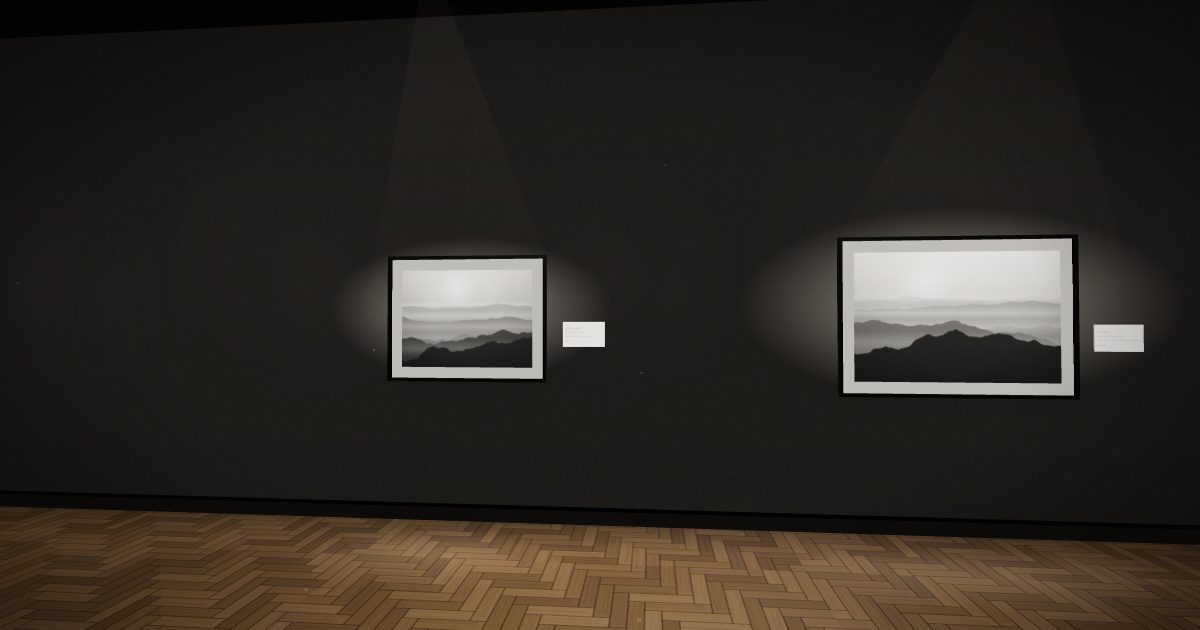
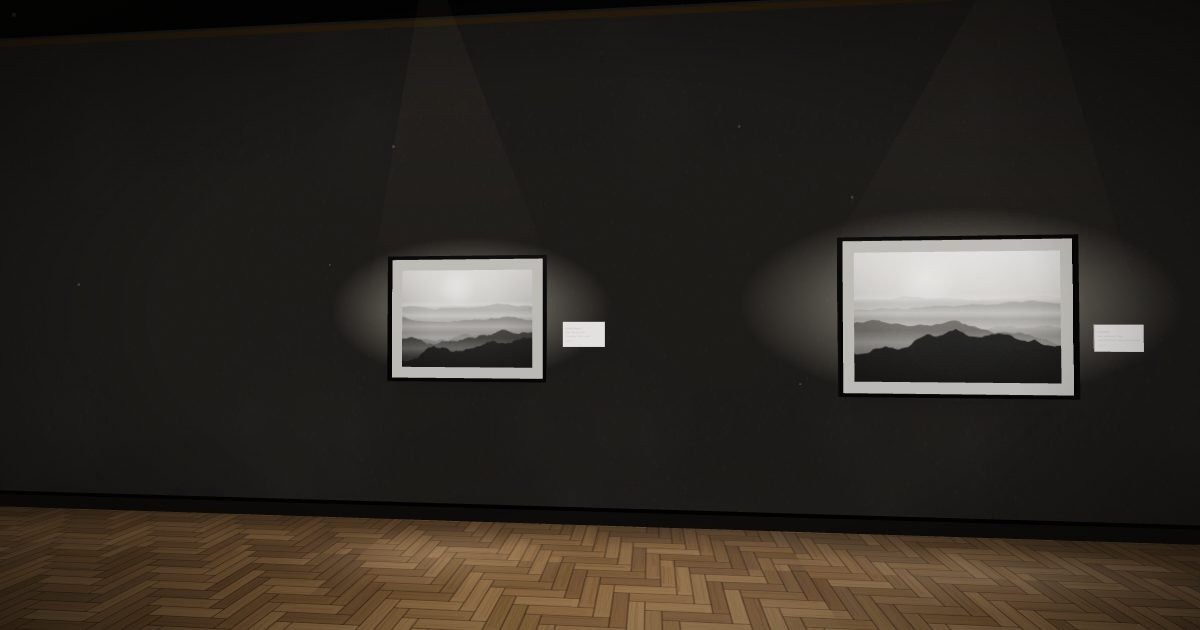
Verbesserungsrunde: Foto-Ausfallsicherung, Sammler-Fluss, Voute, Datentreue
- Werkfotos: laedt ein gepflegtes Bild nicht (Tippfehler/fehlende Datei),
  springt ueberall still der stilechte Platzhalter ein - 3D-Wand (Texture-
  onError) wie Panel/Katalog/Sammlung (setzeWerkBild mit onerror-Rueckfall)
- Werk-Panel: Button wird zum ruhigen "Aus der Sammlung entfernen", wenn das
  Werk schon gesammelt ist; leere Sammlung fuehrt per CTA in den Katalog
- Raum: warme Lichtvoute an jeder Wand-Decken-Kante definiert die Decke;
  die Wortmarke im Entree bekommt ihren eigenen Strahler samt Kegel
- Eintritts-Text nennt die Saalzahl aus werke.json statt hart "Drei Saele"
- Durchlauf-Test um Entfernen/Wieder-Sammeln-Schritt erweitert

diff --git a/src/szene.js b/src/szene.js
@@ -4,7 +4,7 @@
 // automatisch gehängt — neue Werke in werke.json => neue Hängung, ohne Code.
 
 import * as THREE from "three";
-import { raeume, werkeImRaum, bildQuelle, galerie } from "./katalog.js";
+import { raeume, werkeImRaum, bildQuelle, platzhalterCanvasFuer, galerie } from "./katalog.js";
 import { KONFIG, TIER } from "./konfig.js";
 import { IST_TOUCH, IST_SCHWACH, REDUZIERTE_BEWEGUNG } from "./geraet.js";
 import {
@@ -171,6 +171,8 @@ export function erstelleSzene(canvas) {
     return m;
   }
 
+  const vouteMat = new THREE.MeshBasicMaterial({ color: 0x392c19 });
+
   function sockelUndFuge(laenge, x, z, rotY) {
     const s = new THREE.Mesh(new THREE.BoxGeometry(laenge, 0.11, 0.035), sockelMat);
     s.rotation.y = rotY;
@@ -180,6 +182,11 @@ export function erstelleSzene(canvas) {
     f.rotation.y = rotY;
     f.position.set(x, 0.12, z);
     scene.add(f);
+    // Lichtvoute: ein warmer Saum definiert die sonst schwarze Deckenkante
+    const v = new THREE.Mesh(new THREE.BoxGeometry(laenge, 0.035, 0.03), vouteMat);
+    v.rotation.y = rotY;
+    v.position.set(x, RAUM_H - 0.06, z);
+    scene.add(v);
   }
 
   // Längswände Nord/Süd — ein Segment pro Saal (eigene Saalfarbe)
@@ -219,6 +226,15 @@ export function erstelleSzene(canvas) {
     hoeheM: 0.09,
     farbe: "rgba(150,136,112,0.9)",
   });
+  // Die Marke wird beleuchtet wie ein Werk — eigener Strahler samt Kegel
+  erstelleStrahler(
+    scene,
+    new THREE.Vector3(minX + WAND_D, 2.0, 0),
+    new THREE.Vector3(1, 0, 0),
+    2.4,
+    beleuchtung.registriere,
+    zuendReihe++
+  );
 
   // Innenwände: zwei Halbschalen, damit jeder Saal seine Farbe behält
   const rahmenMatTuer = new THREE.MeshStandardMaterial({ color: 0x2a251d, roughness: 0.4, metalness: 0.15 });
@@ -401,11 +417,22 @@ export function erstelleSzene(canvas) {
     gruppe.add(pool);
     beleuchtung.registriere(poolMat, KONFIG.licht.poolBoden * stil.poolFaktor, zuendReihe);
 
-    // Bildtextur
+    // Bildtextur — lädt ein echtes Foto nicht, springt still der Platzhalter
+    // ein (sonst hinge ein schwarzes Rechteck an der Wand)
     const q = bildQuelle(werk);
     let textur;
-    if (q.typ === "canvas") textur = new THREE.CanvasTexture(q.wert);
-    else textur = new THREE.TextureLoader().load(q.wert);
+    if (q.typ === "canvas") {
+      textur = new THREE.CanvasTexture(q.wert);
+    } else {
+      textur = new THREE.TextureLoader().load(q.wert, undefined, undefined, () => {
+        console.warn(`Werkfoto „${q.wert}" nicht ladbar — Platzhalter aktiv (${werk.id}).`);
+        const ersatz = new THREE.CanvasTexture(platzhalterCanvasFuer(werk));
+        ersatz.colorSpace = THREE.SRGBColorSpace;
+        ersatz.anisotropy = ANISO;
+        bild.material.map = ersatz;
+        bild.material.needsUpdate = true;
+      });
+    }
     textur.colorSpace = THREE.SRGBColorSpace;
     textur.anisotropy = ANISO;
 

diff --git a/src/ui.js b/src/ui.js
@@ -2,7 +2,7 @@
 // Saal-Blende mit Caption, Touch-Joystick und Stummschalter.
 // Jedes Werk ist ein Unikat: nur einmal sammelbar, nach Verkauf gesperrt.
 
-import { raeume, raumById, werkById, werkeImRaum, formatPreis, bildThumbnail, galerie } from "./katalog.js";
+import { raeume, raumById, werkById, werkeImRaum, formatPreis, setzeWerkBild, galerie } from "./katalog.js";
 import * as klang from "./klang.js";
 import { machBottomSheet } from "./bottomsheet.js";
 import { IST_TOUCH } from "./geraet.js";
@@ -180,7 +180,7 @@ export function erstelleUI({ aktualisiereVerkauft, steuerungRef }) {
     $("aw-year").textContent = werk.jahr;
     $("aw-desc").textContent = werk.beschreibung;
     $("aw-price").textContent = formatPreis(werk.preis);
-    $("aw-bild").src = bildThumbnail(werk);
+    setzeWerkBild($("aw-bild"), werk);
     $("aw-bild").alt = `${werk.titel}, ${werk.kuenstler}`;
     // Anfrage-CTA per Mail (nur wenn eine Galerie-Adresse gepflegt ist)
     const inquiry = $("aw-inquiry");
@@ -244,8 +244,9 @@ export function erstelleUI({ aktualisiereVerkauft, steuerungRef }) {
       kaufzeile.classList.remove("hidden");
       $("aw-sold").classList.add("hidden");
       const drin = sammlung.includes(werk.id);
-      btn.disabled = drin;
-      btn.textContent = drin ? "In Ihrer Sammlung" : "In die Sammlung";
+      btn.disabled = false;
+      btn.textContent = drin ? "Aus der Sammlung entfernen" : "In die Sammlung";
+      btn.classList.toggle("entfernen", drin);
       // „Preis auf Anfrage": kein Warenkorb, nur der Anfrage-Weg
       btn.classList.toggle("hidden", werk.preis == null);
     }
@@ -263,7 +264,16 @@ export function erstelleUI({ aktualisiereVerkauft, steuerungRef }) {
   $("aw-add").addEventListener("click", () => {
     if (!offenesWerk) return;
     const werk = werkById(offenesWerk);
-    if (werk.verkauft || sammlung.includes(werk.id)) return;
+    if (werk.verkauft) return;
+    if (sammlung.includes(werk.id)) {
+      // zweiter Weg des Buttons: wieder herausnehmen
+      sammlung = sammlung.filter((x) => x !== werk.id);
+      speichereSammlung();
+      aktualisiereKaufButton();
+      renderSammlung();
+      melde(`„${werk.titel}" aus der Sammlung entfernt.`);
+      return;
+    }
     sammlung.push(werk.id);
     speichereSammlung();
     aktualisiereKaufButton();
@@ -318,15 +328,24 @@ export function erstelleUI({ aktualisiereVerkauft, steuerungRef }) {
     if (!sammlung.length) {
       const leer = document.createElement("p");
       leer.className = "cart-empty";
-      leer.textContent = "Noch keine Werke ausgewählt. Klicken Sie im Rundgang ein Werk an.";
+      leer.textContent = "Noch keine Werke ausgewählt.";
       wrap.appendChild(leer);
+      // Kein toter Endpunkt: direkt weiter in den Katalog
+      const cta = document.createElement("button");
+      cta.className = "btn-stripe";
+      cta.textContent = "Alle Werke ansehen";
+      cta.addEventListener("click", () => {
+        schliesseCart();
+        $("catalog-open").click();
+      });
+      wrap.appendChild(cta);
     }
     sammlung.forEach((id) => {
       const werk = werkById(id);
       const el = document.createElement("div");
       el.className = "cart-item";
       const img = document.createElement("img");
-      img.src = bildThumbnail(werk);
+      setzeWerkBild(img, werk);
       img.alt = werk.titel;
       img.addEventListener("click", () => {
         schliesseCart();
@@ -379,7 +398,7 @@ export function erstelleUI({ aktualisiereVerkauft, steuerungRef }) {
             <div class="ci-sub">${werk.kuenstler} · ${raum.name}</div>
             <div class="ci-preis ${werk.verkauft ? "verkauft" : ""}">${werk.verkauft ? "Verkauft" : formatPreis(werk.preis)}</div>
           </div>`;
-        el.querySelector("img").src = bildThumbnail(werk);
+        setzeWerkBild(el.querySelector("img"), werk);
         el.addEventListener("click", () => {
           schliesseKatalog();
           // ungehängte Werke (Saal überbelegt): Details ohne Kamerafahrt

diff --git a/src/katalog.js b/src/katalog.js
@@ -54,6 +54,22 @@ export function bildThumbnail(werk) {
   return q.typ === "url" ? q.wert : q.wert.toDataURL("image/jpeg", 0.7);
 }
 
+// Rückfall, wenn ein gepflegtes Werkfoto nicht lädt (Tippfehler, fehlende
+// Datei): der stilechte Platzhalter statt eines kaputten/schwarzen Bilds.
+export function platzhalterCanvasFuer(werk) {
+  if (!bildCache.has(werk.id)) bildCache.set(werk.id, platzhalterCanvas(werk));
+  return bildCache.get(werk.id);
+}
+
+// Verdrahtet ein <img> mit Quelle + Platzhalter-Rückfall in einem Schritt.
+export function setzeWerkBild(img, werk) {
+  img.onerror = () => {
+    img.onerror = null;
+    img.src = platzhalterCanvasFuer(werk).toDataURL("image/jpeg", 0.7);
+  };
+  img.src = bildThumbnail(werk);
+}
+
 // ————— Platzhalter-Generator (seeded, pro Raum-Thema ein Stil) —————
 
 function seedAusString(s) {

diff --git a/src/main.js b/src/main.js
@@ -21,10 +21,17 @@ import { erstelleUI, ladeVerkaufte } from "./ui.js";
 import { erstelleIntro } from "./intro.js";
 import * as klang from "./klang.js";
 
-// Galeriename aus den Katalogdaten in Titel, Wortmarke und Intro
+// Galeriename und Saalzahl aus den Katalogdaten — pflegt der Händler die
+// Säle, stimmt auch der Eintritts-Text weiter
 document.title = `${galerie.name} — Virtueller Showroom`;
 document.querySelector(".wordmark").textContent = galerie.name;
 document.querySelector(".intro-title").textContent = galerie.name;
+const ZAHLWORT = ["", "Ein", "Zwei", "Drei", "Vier", "Fünf", "Sechs", "Sieben", "Acht"];
+const saalText =
+  raeume.length === 1
+    ? "Ein Saal"
+    : `${ZAHLWORT[raeume.length] || raeume.length} Säle`;
+document.querySelector(".intro-sub").textContent = `${saalText}. Ausgewählte Werke. Direkt erwerbbar.`;
 
 // Bereits (im Demo-Modus) verkaufte Werke aus dem Speicher übernehmen
 const verkaufteIds = ladeVerkaufte();

diff --git a/src/styles.css b/src/styles.css
@@ -79,6 +79,13 @@ html, body {
 .btn-brass:hover:not(:disabled) { filter: brightness(1.08); }
 .btn-brass:active:not(:disabled) { transform: translateY(1px); }
 .btn-brass:disabled { opacity: 0.35; cursor: default; }
+/* Zweitzustand des Sammel-Buttons: ruhig statt fordernd */
+.btn-brass.entfernen {
+  background: transparent;
+  color: var(--ivory-dim);
+  border: 1px solid var(--line);
+}
+.btn-brass.entfernen:hover { color: var(--ivory); border-color: var(--brass); filter: none; }
 .btn-brass:focus-visible,
 button:focus-visible,
 input:focus-visible,